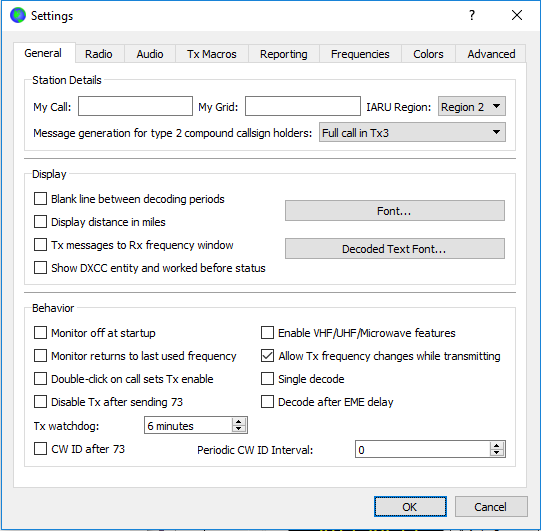
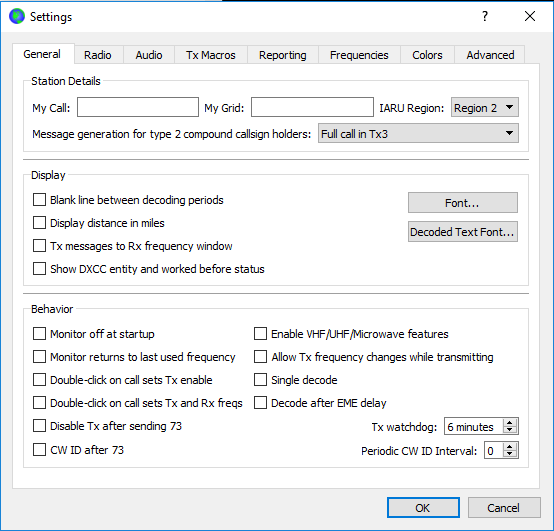
Add an option to enforce simplex operation (moving both Tx and Rx frequency) when double-clicking on a decoded text line.
git-svn-id: svn+ssh://svn.code.sf.net/p/wsjt/wsjt/branches/wsjtx@8144 ab8295b8-cf94-4d9e-aec4-7959e3be5d79

Changed region(s): [[0.0, 0.0, 1.0, 1.0], [0.2366, 0.0904, 0.976, 0.1205]]

diff --git a/Configuration.cpp b/Configuration.cpp
@@ -553,6 +553,7 @@ private:
   bool clear_DX_;
   bool miles_;
   bool quick_call_;
+  bool default_simplex_;
   bool disable_TX_on_73_;
   int watchdog_;
   bool TX_messages_;
@@ -643,6 +644,7 @@ bool Configuration::DXCC () const {return m_->DXCC_;}
 bool Configuration::clear_DX () const {return m_->clear_DX_;}
 bool Configuration::miles () const {return m_->miles_;}
 bool Configuration::quick_call () const {return m_->quick_call_;}
+bool Configuration::default_simplex () const {return m_->default_simplex_;}
 bool Configuration::disable_TX_on_73 () const {return m_->disable_TX_on_73_;}
 int Configuration::watchdog () const {return m_->watchdog_;}
 bool Configuration::TX_messages () const {return m_->TX_messages_;}
@@ -1082,6 +1084,7 @@ void Configuration::impl::initialize_models ()
   ui_->clear_DX_check_box->setChecked (clear_DX_);
   ui_->miles_check_box->setChecked (miles_);
   ui_->quick_call_check_box->setChecked (quick_call_);
+  ui_->cbDefaultSimplex->setChecked (default_simplex_);
   ui_->disable_TX_on_73_check_box->setChecked (disable_TX_on_73_);
   ui_->tx_watchdog_spin_box->setValue (watchdog_);
   ui_->TX_messages_check_box->setChecked (TX_messages_);
@@ -1312,6 +1315,7 @@ void Configuration::impl::read_settings ()
   clear_DX_ = settings_->value ("ClearCallGrid", false).toBool ();
   miles_ = settings_->value ("Miles", false).toBool ();
   quick_call_ = settings_->value ("QuickCall", false).toBool ();
+  default_simplex_ = settings_->value ("DefaultSimplex", false).toBool ();
   disable_TX_on_73_ = settings_->value ("73TxDisable", false).toBool ();
   watchdog_ = settings_->value ("TxWatchdog", 6).toInt ();
   TX_messages_ = settings_->value ("Tx2QSO", true).toBool ();
@@ -1403,6 +1407,7 @@ void Configuration::impl::write_settings ()
   settings_->setValue ("ClearCallGrid", clear_DX_);
   settings_->setValue ("Miles", miles_);
   settings_->setValue ("QuickCall", quick_call_);
+  settings_->setValue ("DefaultSimplex", default_simplex_);
   settings_->setValue ("73TxDisable", disable_TX_on_73_);
   settings_->setValue ("TxWatchdog", watchdog_);
   settings_->setValue ("Tx2QSO", TX_messages_);
@@ -1802,6 +1807,7 @@ void Configuration::impl::accept ()
   clear_DX_ = ui_->clear_DX_check_box->isChecked ();
   miles_ = ui_->miles_check_box->isChecked ();
   quick_call_ = ui_->quick_call_check_box->isChecked ();
+  default_simplex_ = ui_->cbDefaultSimplex->isChecked ();
   disable_TX_on_73_ = ui_->disable_TX_on_73_check_box->isChecked ();
   watchdog_ = ui_->tx_watchdog_spin_box->value ();
   TX_messages_ = ui_->TX_messages_check_box->isChecked ();

diff --git a/mainwindow.cpp b/mainwindow.cpp
@@ -3732,6 +3732,7 @@ void MainWindow::processMessage(DecodedText const& message, bool shift, bool ctr
     return;
   }
 
+  if(m_config.default_simplex()) ctrl=true;
   if(m_bFastMode or m_mode=="FT8") {
     auto i1=message.string ().indexOf(" CQ ");
     if(i1>10) {

diff --git a/Configuration.hpp b/Configuration.hpp
@@ -117,6 +117,7 @@ public:
   bool clear_DX () const;
   bool miles () const;
   bool quick_call () const;
+  bool default_simplex() const;
   bool disable_TX_on_73 () const;
   int watchdog () const;
   bool TX_messages () const;
